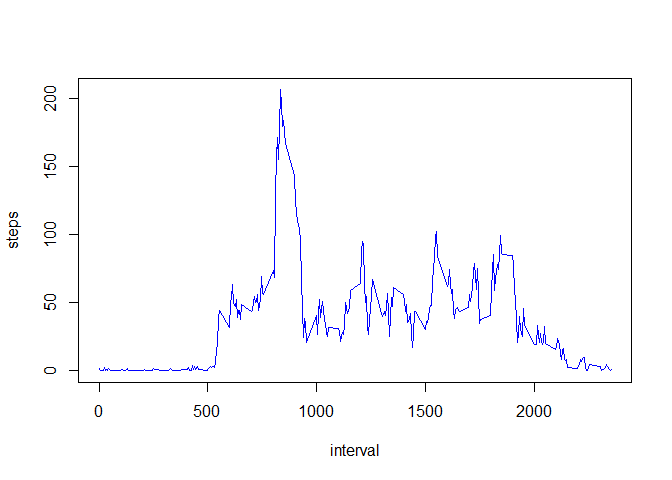
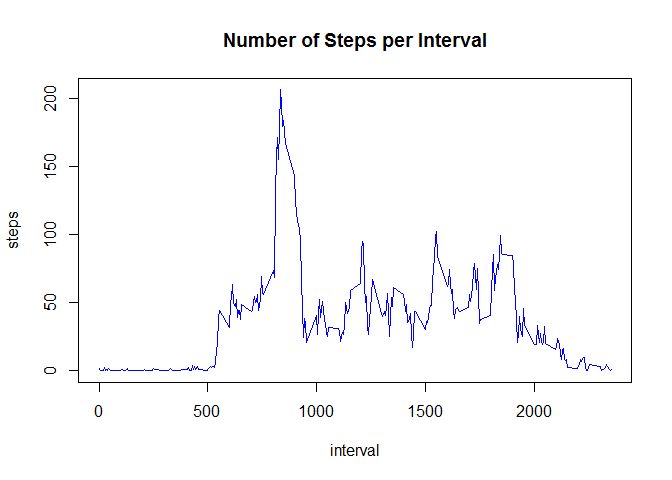
update with the figure/ folder

Changed region(s): [[0.3125, 0.0625, 0.75, 0.125]]

diff --git a/PA1_template.html b/PA1_template.html
@@ -314,10 +314,10 @@ median(dailySteps$steps, na.rm = TRUE)
 <pre><code class="r"># summarize steps per interval
 stepsInterval &lt;- aggregate(steps ~ interval, data = originalData, FUN = mean)
 # make a plot of steps by interval
-plot(stepsInterval, type = &quot;l&quot;, col = &quot;blue&quot;)
+plot(stepsInterval, type = &quot;l&quot;, col = &quot;blue&quot;, main=&quot;Number of Steps per Interval&quot;)
 </code></pre>
 
[2 lines of base64/hex data omitted]
 
 <h3>2- Show Which 5-minute interval, on average across all the days in the dataset, contains the maximum number of steps?</h3>
 

diff --git a/PA1_template.md b/PA1_template.md
@@ -127,7 +127,6 @@ median(dailySteps$steps, na.rm = TRUE)
 ```
 
  
- 
 ## What is the average daily activity pattern?
 
 ### 1 - Make a time series plot (i.e. type = "l") of the 5-minute interval (x-axis) and the average number of steps taken, averaged across all days (y-axis)
@@ -136,7 +135,7 @@ median(dailySteps$steps, na.rm = TRUE)
 # summarize steps per interval
 stepsInterval <- aggregate(steps ~ interval, data = originalData, FUN = mean)
 # make a plot of steps by interval
-plot(stepsInterval, type = "l", col = "blue")
+plot(stepsInterval, type = "l", col = "blue", main="Number of Steps per Interval")
 ```
 
 ![plot of chunk unnamed-chunk-7](figure/unnamed-chunk-7-1.png) 
